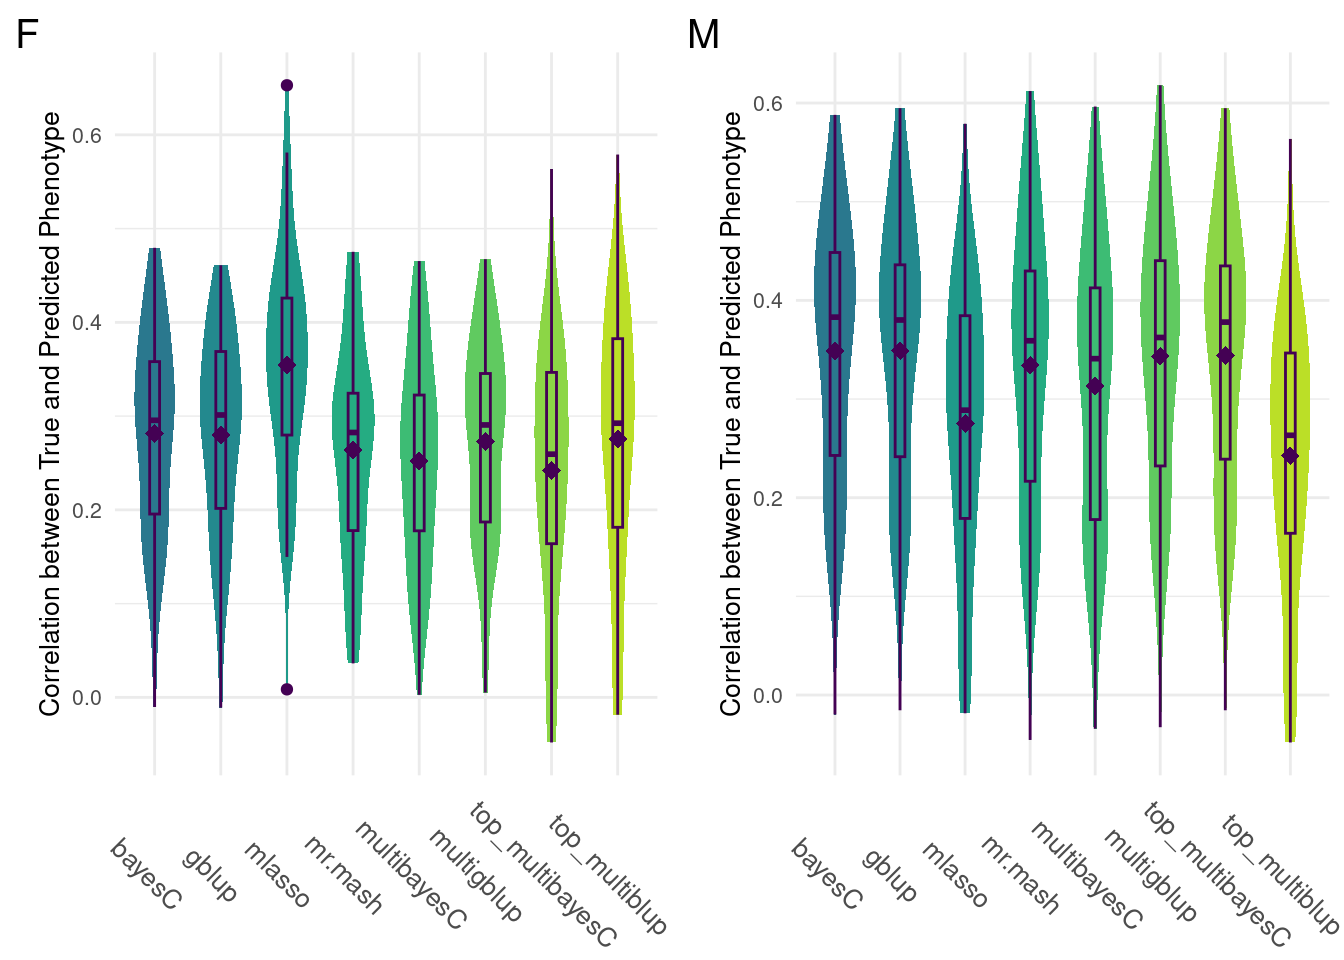
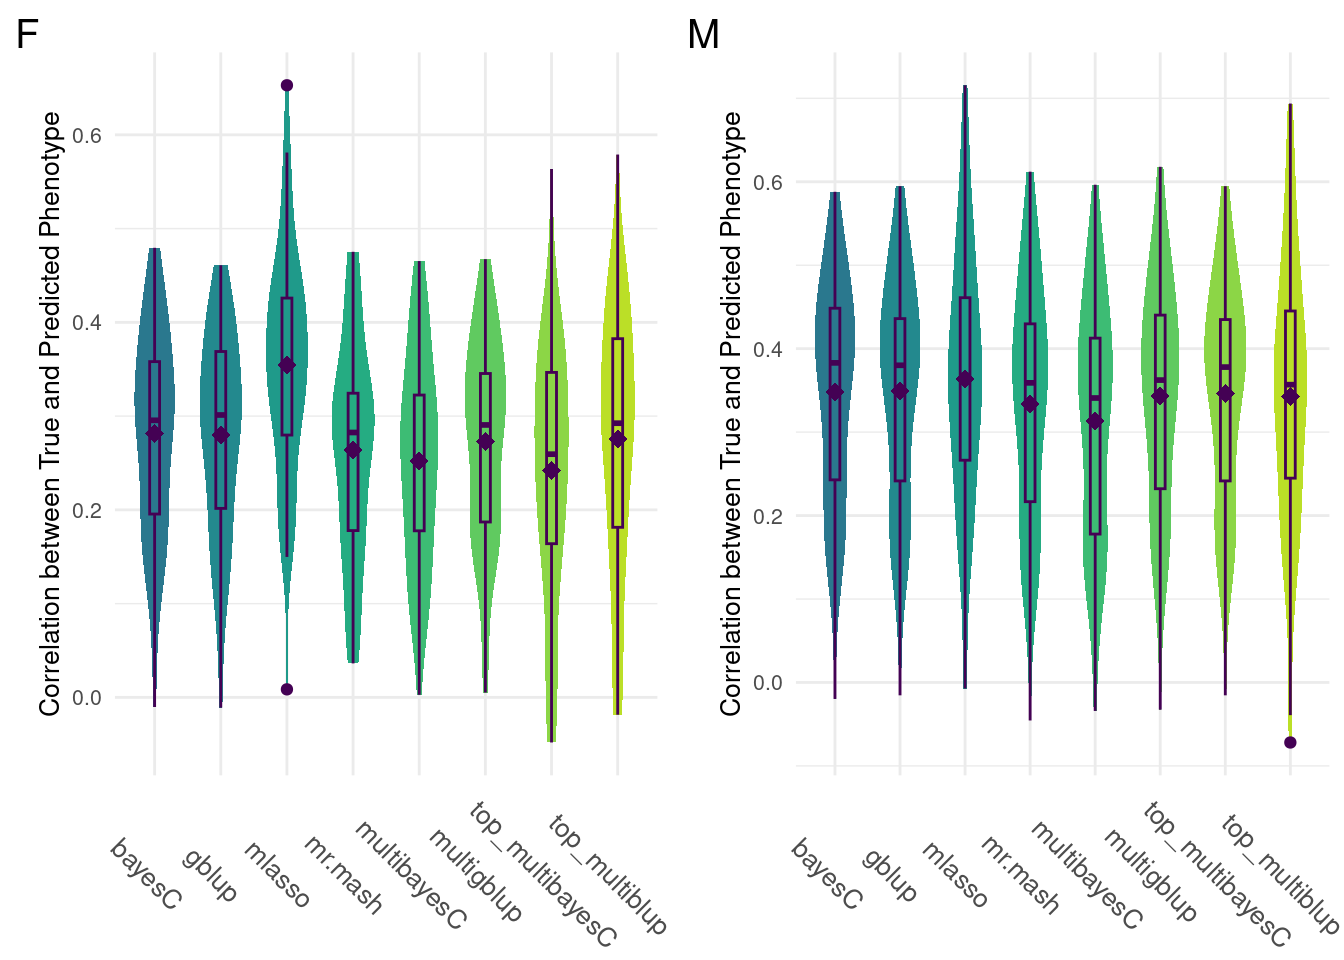
Build site.

diff --git a/docs/multitraitPred.html b/docs/multitraitPred.html
@@ -509,16 +509,16 @@ relative
 <div class="panel panel-default">
 <div class="panel-heading">
 <p class="panel-title">
-<a data-toggle="collapse" data-parent="#workflowr-checks" href="#strongRepositoryversionstrongahrefhttpsgithubcomnklimkodgrpstarvetreedb82ff09fa2c37aae2ac79d1222304b6dfeb6f52targetblankdb82ff0a"> <span class="glyphicon glyphicon-ok text-success" aria-hidden="true"></span> <strong>Repository version:</strong> <a href="https://github.com/nklimko/dgrp-starve/tree/db82ff09fa2c37aae2ac79d1222304b6dfeb6f52" target="_blank">db82ff0</a> </a>
+<a data-toggle="collapse" data-parent="#workflowr-checks" href="#strongRepositoryversionstrongahrefhttpsgithubcomnklimkodgrpstarvetreee0e44f1e56bcc33380d098767765b6e02d71ef2ctargetblanke0e44f1a"> <span class="glyphicon glyphicon-ok text-success" aria-hidden="true"></span> <strong>Repository version:</strong> <a href="https://github.com/nklimko/dgrp-starve/tree/e0e44f1e56bcc33380d098767765b6e02d71ef2c" target="_blank">e0e44f1</a> </a>
 </p>
 </div>
[2 lines of base64/hex data omitted]
 <div class="panel-body">
 <p>
 Great! You are using Git for version control. Tracking code development and connecting the code version to the results is critical for reproducibility.
 </p>
 <p>
-The results in this page were generated with repository version <a href="https://github.com/nklimko/dgrp-starve/tree/db82ff09fa2c37aae2ac79d1222304b6dfeb6f52" target="_blank">db82ff0</a>. See the <em>Past versions</em> tab to see a history of the changes made to the R Markdown and HTML files.
+The results in this page were generated with repository version <a href="https://github.com/nklimko/dgrp-starve/tree/e0e44f1e56bcc33380d098767765b6e02d71ef2c" target="_blank">e0e44f1</a>. See the <em>Past versions</em> tab to see a history of the changes made to the R Markdown and HTML files.
 </p>
 <p>
 Note that you need to be careful to ensure that all relevant files for the analysis have been committed to Git prior to generating the results (you can use <code>wflow_publish</code> or <code>wflow_git_commit</code>). workflowr only checks the R Markdown file, but you know if there are other scripts or data files that it depends on. Below is the status of the Git repository when the results were generated:
@@ -682,6 +682,40 @@ Message
 </tr>
 </thead>
 <tbody>
+<tr>
+<td>
+Rmd
+</td>
+<td>
+<a href="https://github.com/nklimko/dgrp-starve/blob/e0e44f1e56bcc33380d098767765b6e02d71ef2c/analysis/multitraitPred.Rmd" target="_blank">e0e44f1</a>
+</td>
+<td>
+nklimko
+</td>
+<td>
+2023-06-20
+</td>
+<td>
+wflow_publish("analysis/multitraitPred.Rmd", republish = TRUE)
+</td>
+</tr>
+<tr>
+<td>
+html
+</td>
+<td>
+<a href="https://rawcdn.githack.com/nklimko/dgrp-starve/3a85d38b64e843d14f10541ec5cb796954f7e26c/docs/multitraitPred.html" target="_blank">3a85d38</a>
+</td>
+<td>
+nklimko
+</td>
+<td>
+2023-06-20
+</td>
+<td>
+Build site.
+</td>
+</tr>
 <tr>
 <td>
 Rmd
@@ -876,10 +910,10 @@ mlassoData &lt;- (&#39;snake/data/20_cor/mlasso_m_starvation.Rds&#39;)
 temp &lt;- unlist(mlassoData)
 mlasso &lt;- temp[seq(1, length(temp), by=4)]
 
-topmbc &lt;- unlist(readRDS(&#39;snake/data/20_cor/multibayesC_f_sr.top3.Rds&#39;))
+topmbc &lt;- unlist(readRDS(&#39;snake/data/20_cor/multibayesC_m_sr.top3.Rds&#39;))
 top_multibayesC &lt;- topmbc[seq(1, length(topmbc), by=16)]
 
-topblup &lt;- unlist(readRDS(&#39;snake/data/20_cor/multiblup_f_sr.top3.Rds&#39;))
+topblup &lt;- unlist(readRDS(&#39;snake/data/20_cor/multiblup_m_sr.top3.Rds&#39;))
 top_multiblup &lt;- topblup[seq(1, length(topblup), by=16)]
 
 temp &lt;- c(gblup, bayesC, multigblup, multibayesC, mr.mash, mlasso, top_multiblup, top_multibayesC)
@@ -908,8 +942,8 @@ remainder.</code></pre>
 print(paste0(c(&#39;bayesC&#39;, &#39;gblup&#39;, &#39;multibayesC&#39;, &#39;multigblup&#39;, &#39;mr.mash&#39;, &#39;top_multibayesC&#39;, &#39;top_multiblup&#39;),&#39;: &#39;,c(mean(bayesC), mean(gblup), mean(multibayesC), mean(multigblup), mean(mr.mash), mean(top_multibayesC), mean(top_multiblup))))</code></pre>
 <pre><code>[1] &quot;bayesC: 0.348274542374069&quot;          &quot;gblup: 0.349139906076041&quot;          
 [3] &quot;multibayesC: 0.313346489684489&quot;     &quot;multigblup: 0.3433458357234&quot;       
-[5] &quot;mr.mash: 0.334111164959302&quot;         &quot;top_multibayesC: 0.241689113192319&quot;
-[7] &quot;top_multiblup: 0.275657017370914&quot;  </code></pre>
+[5] &quot;mr.mash: 0.334111164959302&quot;         &quot;top_multibayesC: 0.342689855485783&quot;
+[7] &quot;top_multiblup: 0.364102522420843&quot;  </code></pre>
 <div id="correlation-coefficient-boxplots" class="section level3">
 <h3>Correlation Coefficient Boxplots</h3>
 <pre class="r"><code>plot_grid(gg[[1]],gg[[2]], ncol=2)</code></pre>
@@ -936,6 +970,17 @@ Date
 </tr>
 </thead>
 <tbody>
+<tr>
+<td>
+<a href="https://github.com/nklimko/dgrp-starve/blob/3a85d38b64e843d14f10541ec5cb796954f7e26c/docs/figure/multitraitPred.Rmd/plot-print-1.png" target="_blank">3a85d38</a>
+</td>
+<td>
+nklimko
+</td>
+<td>
+2023-06-20
+</td>
+</tr>
 <tr>
 <td>
 <a href="https://github.com/nklimko/dgrp-starve/blob/8e5b37bb4652579fed008dedb3462f6c44104f07/docs/figure/multitraitPred.Rmd/plot-print-1.png" target="_blank">8e5b37b</a>
@@ -1021,6 +1066,43 @@ gg[[4]] &lt;- ggplot(data, aes(x=alpha, y=cor, fill=alpha)) +
         scale_fill_viridis(begin = 0.4, end=0.9,discrete=TRUE)</code></pre>
 <pre class="r"><code>plot_grid(gg[[3]],gg[[4]], ncol=2)</code></pre>
 <p><img src="figure/multitraitPred.Rmd/runtime-print-1.png" width="672" style="display: block; margin: auto;" /></p>
+<p>
+<button type="button" class="btn btn-default btn-xs btn-workflowr btn-workflowr-fig" data-toggle="collapse" data-target="#fig-runtime-print-1">
+Past versions of runtime-print-1.png
+</button>
+</p>
+<div id="fig-runtime-print-1" class="collapse">
+<div class="table-responsive">
+<table class="table table-condensed table-hover">
+<thead>
+<tr>
+<th>
+Version
+</th>
+<th>
+Author
+</th>
+<th>
+Date
+</th>
+</tr>
+</thead>
+<tbody>
+<tr>
+<td>
+<a href="https://github.com/nklimko/dgrp-starve/blob/3a85d38b64e843d14f10541ec5cb796954f7e26c/docs/figure/multitraitPred.Rmd/runtime-print-1.png" target="_blank">3a85d38</a>
+</td>
+<td>
+nklimko
+</td>
+<td>
+2023-06-20
+</td>
+</tr>
+</tbody>
+</table>
+</div>
+</div>
 <br>
 <p>
 <button type="button" class="btn btn-default btn-workflowr btn-workflowr-sessioninfo" data-toggle="collapse" data-target="#workflowr-sessioninfo" style="display: block;">

diff --git a/docs/index.html b/docs/index.html
@@ -306,7 +306,7 @@ $(document).ready(function () {
 <div class="tab-content">
 <div id="summary" class="tab-pane fade in active">
 <p>
-<strong>Last updated:</strong> 2023-05-30
+<strong>Last updated:</strong> 2023-06-20
 </p>
 <p>
 <strong>Checks:</strong> <span class="glyphicon glyphicon-ok text-success" aria-hidden="true"></span> 2 <span class="glyphicon glyphicon-exclamation-sign text-danger" aria-hidden="true"></span> 0
@@ -337,16 +337,16 @@ This reproducible <a href="https://rmarkdown.rstudio.com">R Markdown</a> analysi
 <div class="panel panel-default">
 <div class="panel-heading">
 <p class="panel-title">
-<a data-toggle="collapse" data-parent="#workflowr-checks" href="#strongRepositoryversionstrongahrefhttpsgithubcomnklimkodgrpstarvetree19e444b2edead9a6b52cba25478d13248f074eb7targetblank19e444ba"> <span class="glyphicon glyphicon-ok text-success" aria-hidden="true"></span> <strong>Repository version:</strong> <a href="https://github.com/nklimko/dgrp-starve/tree/19e444b2edead9a6b52cba25478d13248f074eb7" target="_blank">19e444b</a> </a>
+<a data-toggle="collapse" data-parent="#workflowr-checks" href="#strongRepositoryversionstrongahrefhttpsgithubcomnklimkodgrpstarvetreee0e44f1e56bcc33380d098767765b6e02d71ef2ctargetblanke0e44f1a"> <span class="glyphicon glyphicon-ok text-success" aria-hidden="true"></span> <strong>Repository version:</strong> <a href="https://github.com/nklimko/dgrp-starve/tree/e0e44f1e56bcc33380d098767765b6e02d71ef2c" target="_blank">e0e44f1</a> </a>
 </p>
 </div>
[2 lines of base64/hex data omitted]
 <div class="panel-body">
 <p>
 Great! You are using Git for version control. Tracking code development and connecting the code version to the results is critical for reproducibility.
 </p>
 <p>
-The results in this page were generated with repository version <a href="https://github.com/nklimko/dgrp-starve/tree/19e444b2edead9a6b52cba25478d13248f074eb7" target="_blank">19e444b</a>. See the <em>Past versions</em> tab to see a history of the changes made to the R Markdown and HTML files.
+The results in this page were generated with repository version <a href="https://github.com/nklimko/dgrp-starve/tree/e0e44f1e56bcc33380d098767765b6e02d71ef2c" target="_blank">e0e44f1</a>. See the <em>Past versions</em> tab to see a history of the changes made to the R Markdown and HTML files.
 </p>
 <p>
 Note that you need to be careful to ensure that all relevant files for the analysis have been committed to Git prior to generating the results (you can use <code>wflow_publish</code> or <code>wflow_git_commit</code>). workflowr only checks the R Markdown file, but you know if there are other scripts or data files that it depends on. Below is the status of the Git repository when the results were generated:
@@ -369,6 +369,7 @@ Untracked files:
     Untracked:  code/intro-starve/
     Untracked:  code/methodComp/
     Untracked:  code/regress/
+    Untracked:  colorCode
     Untracked:  data/bayesF.rds
     Untracked:  data/bayesM.rds
     Untracked:  data/bglr-f-130k.rds
@@ -406,8 +407,6 @@ Untracked files:
     Untracked:  data/y_save.txt
     Untracked:  f-cor.png
     Untracked:  figure/
-    Untracked:  filesnake1
-    Untracked:  filesnake4_3
     Untracked:  junk/
     Untracked:  m-cor.png
     Untracked:  notes/
@@ -511,6 +510,23 @@ Message
 </tr>
 </thead>
 <tbody>
+<tr>
+<td>
+html
+</td>
+<td>
+<a href="https://rawcdn.githack.com/nklimko/dgrp-starve/790a201647ddde7a9847fa185b61f4a79d110fa3/docs/index.html" target="_blank">790a201</a>
+</td>
+<td>
+nklimko
+</td>
+<td>
+2023-05-30
+</td>
+<td>
+Build site.
+</td>
+</tr>
 <tr>
 <td>
 Rmd
